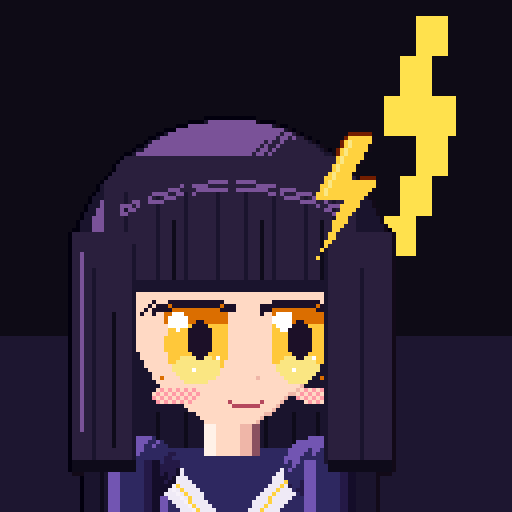
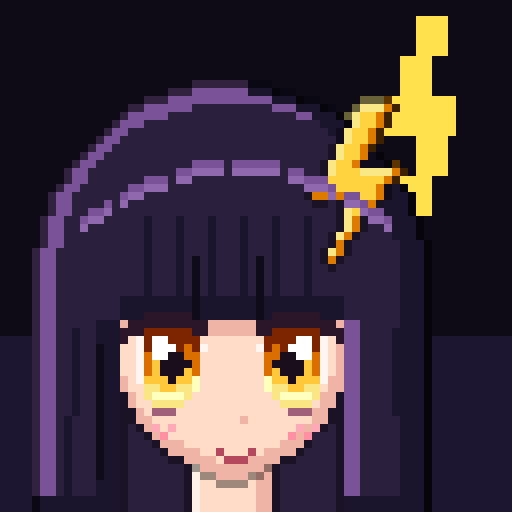
Redraw heroines and squad girls with a new anime pixel-art renderer
Characters are now built from smooth shapes snapped to pixels and
cel-shaded per part (rim light, contact lines, selective outlines), at
about 170px tall. Eyes are hand-placed 11x13 pixel templates with lash,
five-tone iris, pupil, sclera and two highlights (plus star, cat-slit
and blink variants). Ears now grow from the crown, tails from the hip,
and the back view shows layered hair with the arms visible. Portraits
are the sprite's own head at 2x.

Claude-Session: https://claude.ai/code/session_01G7wJVgNREwV81C7tq9bPH5

diff --git a/index.html b/index.html
@@ -620,18 +620,224 @@ const ORN={
   shiden:(D,y)=>{D.poly([[51,3+y],[53,8.5+y],[59,9+y],[54.5,12.6+y],[56,18.5+y],[51,15.2+y],[46,18.5+y],[47.5,12.6+y],[43,9+y],[49,8.5+y]],'R');D.px(50.4,8+y,'5');D.px(50.8,9+y,'5')},
   kurenai:(D,y)=>{D.sphere(48,10+y,3.4,3.4,'rrR5');D.sphere(53.5,14+y,3.4,3.4,'rrR5');D.line(46,10.5+y,50,10.5+y,'r');D.line(51.5,14.5+y,55.5,14.5+y,'r');D.line(50,6+y,53,4+y,'A')}};
 function heroPal(h){return{hair:h.hair,skin:h.skin||'#ffd9c4',blush:'#ff9aa6',lash:'#1c1028',eye:h.eye,white:'#ffffff',mouth:'#b5485d',out:h.outfit,col:h.col||'#efeaf6',acc:h.accent,rib:h.rib,stk:h.stk,boot:h.boot,glow:h.bolt}}
-const HSPR={},PORT_S=128/76;
-function himeSprite(h){if(HSPR[h.id])return HSPR[h.id];const pal=heroPal(h),cache={},look={...h.look,ornament:ORN[h.id],kind:'hero'};
-  const get=(view,pose,f=0,blink=false)=>{const k=view+pose+f+(blink?'b':'');return cache[k]||(cache[k]=mk(human({...look,S:1,view,pose,f,blink}),pal,1))};
+/* ---------- anime girl renderer: smooth shapes snapped to pixels, cel shaded, hand-placed eyes ---------- */
+const EYE_BASE=[
+"...KKKKKK..",
+".KKKKKKKKKK",
+"KKKDDDDDDKK",
+"K.SDWWDDDD.",
+"..SDWWWDdDS",
+"..SdWWPPdd.",
+"..SdMPPPPd.",
+"..SdMPPPMd.",
+"..SMMMPMMH.",
+"...LLMMLLH.",
+"...LHHHHL..",
+"....LLLL...",
+"....kkk...."];
+const EYE_MID={star:["..SdWWdHdd.","..SdMHWWHd.","..SdMMHMMd.","..SMMMHMMH."],cat:["..SdWWdPdd.","..SdMMdPMd.","..SdMMdPMd.","..SMMMdPMH."]};
+const EYE_BLINK=["...........","...........","...........","...........","...........","...........","...........",".KKKKKKKKK.","K.........K","...........","...........","...........","..........."];
+function eyeRows(kind,blink){if(blink)return EYE_BLINK;if(!EYE_MID[kind])return EYE_BASE;return EYE_BASE.slice(0,5).concat(EYE_MID[kind],EYE_BASE.slice(9))}
+const MOUTHS={smile:["m...m",".mmm."],open:[".mmm.","mrrrm",".mrm."],cat:["m.m.m",".m.m."],neutral:[".mm.."]};
+const SKIN=['#a8606e','#f0b4a6','#ffdcc8','#fff1e8'];
+function renderGirl(l,p,o){
+  const S=o.S||1,W=Math.ceil(100*S),H=Math.ceil(174*S),N=W*H;
+  const col=new Uint32Array(N),zb=new Int16Array(N).fill(-1),pid=new Int16Array(N).fill(-1);
+  const tmp=document.createElement('canvas');tmp.width=W;tmp.height=H;const tc=tmp.getContext('2d',{willReadFrequently:true});let nid=0;
+  const back=o.view==='back',pose=o.pose||'walk',f=o.f||0,walk=pose==='walk';
+  const sw=walk?[0,1,0,-1][f]:0,bob=walk?f%2:pose==='idle'?f:0,sway=walk?[0,1.5,0,-1.5][f]:bob*.6,cast=pose==='cast'&&!back,hy=bob;
+  const U=hex=>{const n=parseInt(hex.slice(1),16);return(0xff000000|((n&255)<<16)|(n&0xff00)|(n>>16))>>>0};
+  const R4=hex=>hex==='skin'?SKIN:ramp(hex);
+  // a part is a filled shape at depth z, cel shaded from its own silhouette (shadow on the right/bottom, rim light on the top/left)
+  function part(z,color,draw,opt={}){tc.setTransform(1,0,0,1,0,0);tc.clearRect(0,0,W,H);tc.setTransform(S,0,0,S,0,0);tc.fillStyle='#fff';tc.strokeStyle='#fff';tc.lineCap='round';tc.lineJoin='round';
+    draw(tc);const a=tc.getImageData(0,0,W,H).data,m=new Uint8Array(N);for(let i=0;i<N;i++)m[i]=a[i*4+3]>120?1:0;
+    const rp=R4(color).map(U),id=nid++,bs=Math.max(1,Math.round((opt.band??2.6)*S)),ls=Math.max(1,Math.round((opt.rim??1.4)*S));
+    const inM=(x,y)=>x>=0&&y>=0&&x<W&&y<H&&m[y*W+x]===1;
+    for(let y=0;y<H;y++)for(let x=0;x<W;x++){const i=y*W+x;if(!m[i]||zb[i]>z)continue;let t=2;
+      if(!opt.flat){if(!inM(x+bs,y)||!inM(x,y+bs)||(opt.shadeL&&!inM(x-bs,y)))t=1;else if(!inM(x-ls,y)||!inM(x,y-ls))t=3}
+      if(opt.tone!==undefined)t=opt.tone;col[i]=rp[t];zb[i]=z;pid[i]=id}
+    return id}
+  const P=(x,y)=>[Math.floor(x*S),Math.floor(y*S)];
+  function setPx(x,y,hex,onId,z=900){if(x<0||y<0||x>=W||y>=H)return;const i=y*W+x;if(onId!==undefined&&onId!==null&&(Array.isArray(onId)?!onId.includes(pid[i]):pid[i]!==onId))return;col[i]=U(hex);if(z>zb[i])zb[i]=z}
+  function lineOn(id,x0,y0,x1,y1,hex){[x0,y0]=P(x0,y0);[x1,y1]=P(x1,y1);let dx=Math.abs(x1-x0),dy=-Math.abs(y1-y0),sx=x0<x1?1:-1,sy=y0<y1?1:-1,e=dx+dy;
+    for(let n=0;n<600;n++){setPx(x0,y0,hex,id);if(x0===x1&&y0===y1)break;const e2=2*e;if(e2>=dy){e+=dy;x0+=sx}if(e2<=dx){e+=dx;y0+=sy}}}
+  function stamp(rows,x,y,map,mirror,onId){const[x0,y0]=P(x,y);rows.forEach((r,j)=>{for(let i=0;i<r.length;i++){const ch=r[mirror?r.length-1-i:i],c=map[ch];if(c)setPx(x0+i,y0+j,c,onId,950)}})}
+  const hair=p.hair,hr=ramp(hair),er=ramp(p.eye),dk=shade(hr[0],-30);
+  const L=l,ty=bob;
+  // ---------------- shapes ----------------
+  const leg=(c,lift,dx)=>{const knee=140,ank=158-lift;
+    part(40,'skin',x=>{x.lineWidth=10.4;x.beginPath();x.moveTo(c,112+ty);x.lineTo(c+dx*.4,knee);x.stroke();x.lineWidth=8;x.beginPath();x.moveTo(c+dx*.4,knee);x.lineTo(c+dx,ank);x.stroke()});
+    const stk=L.legs==='stockings'||L.legs==='striped'?132:L.legs==='kneeboots'?999:L.legs==='hakama'?150:L.legs==='pants'?108:999;
+    if(stk<999){const sid=part(42,L.legs==='pants'?p.out:p.stk,x=>{x.lineWidth=L.legs==='pants'?12:10.8;x.beginPath();x.moveTo(c+dx*.4*(stk-112)/28,stk);x.lineTo(c+dx*.4,knee);x.stroke();x.lineWidth=L.legs==='pants'?11:8.8;x.beginPath();x.moveTo(c+dx*.4,knee);x.lineTo(c+dx,ank);x.stroke()});
+      if(L.legs==='striped')for(let y=stk+4;y<ank;y+=4)lineOn(sid,c-8,y,c+8,y,p.acc);
+      if(L.legs==='stockings'||L.legs==='striped'){lineOn(sid,c-6,stk+1,c+6,stk+1,shade(p.stk,-40))}}
+    if(L.legs==='kneeboots'){part(44,p.boot,x=>{x.lineWidth=10.6;x.beginPath();x.moveTo(c+dx*.4,134);x.lineTo(c+dx,ank);x.stroke()});part(45,p.acc,x=>{x.fillRect(c+dx*.4-6,133,12,2.4)},{flat:true})}
+    const sh=L.shoe||'boot';
+    if(sh==='zori'){part(46,'#f8f6f2',x=>{x.beginPath();x.ellipse(c+dx+1,ank+5,5.4,4,0,0,7);x.fill()});part(47,'#7a4a2a',x=>{x.fillRect(c+dx-5,ank+8,12,2.4)},{flat:true});const z=part(48,p.rib,x=>{x.lineWidth=1.6;x.beginPath();x.moveTo(c+dx-2,ank+5);x.lineTo(c+dx+1,ank+2);x.lineTo(c+dx+4,ank+5);x.stroke()},{flat:true})}
+    else{const bootTop=sh==='boot'&&L.legs!=='kneeboots'?ank-8:ank-1;
+      if(sh==='boot'&&L.legs!=='kneeboots')part(46,p.boot,x=>{x.lineWidth=10;x.beginPath();x.moveTo(c+dx,bootTop);x.lineTo(c+dx,ank+2);x.stroke()});
+      part(47,sh==='sneaker'?'#f4f0f8':p.boot,x=>{x.beginPath();x.ellipse(c+dx+1.5,ank+5,6.6,4.6,0,0,7);x.fill()});
+      part(48,sh==='sneaker'?p.acc:shade(p.boot,-25),x=>{x.fillRect(c+dx-5,ank+8.4,13.5,2)},{flat:true});
+      if(sh==='mary')part(49,shade(p.boot,-20),x=>{x.fillRect(c+dx-4,ank+1,10,1.6)},{flat:true})}};
+  const tail=()=>{
+    if(L.tail==='cat'){part(5,hair,x=>{x.lineWidth=5;x.beginPath();x.moveTo(58,108+ty);x.bezierCurveTo(72,114,82,100,78,84+sway);x.bezierCurveTo(76,74,80,66+sway,86,66+sway*1.5);x.stroke()});
+      part(6,hr[3],x=>{x.lineWidth=5;x.beginPath();x.moveTo(84,66.5+sway*1.5);x.lineTo(86,66+sway*1.5);x.stroke()})}
+    else if(L.tail==='fox'){part(5,hair,x=>{x.beginPath();x.moveTo(56,116);x.bezierCurveTo(76,126,94,108,92,86);x.bezierCurveTo(91,70,82,60+sway,74,56+sway);x.bezierCurveTo(80,74,78,94,58,104);x.closePath();x.fill()});
+      part(6,'#fbf6ec',x=>{x.beginPath();x.moveTo(74,56+sway);x.bezierCurveTo(82,58+sway,90,66,91,74);x.bezierCurveTo(86,72,80,68,77,64);x.closePath();x.fill()})}};
+  const backHairLong=(z)=>{const s=L.hs;
+    if(s==='hime')part(z,hair,x=>{x.beginPath();x.moveTo(27,40+hy);x.arc(50,40+hy,23,Math.PI,0);x.lineTo(74,124);x.lineTo(26,124);x.closePath();x.fill()});
+    else if(s==='long')part(z,hair,x=>{x.beginPath();x.moveTo(27,40+hy);x.arc(50,40+hy,23,Math.PI,0);x.lineTo(76,128+sway);x.lineTo(68,124);x.lineTo(62,131+sway);x.lineTo(56,125);x.lineTo(50,132+sway);x.lineTo(44,125);x.lineTo(38,131+sway);x.lineTo(32,124);x.lineTo(24,128+sway);x.closePath();x.fill()});
+    else if(s==='bob')part(z,hair,x=>{x.beginPath();x.moveTo(27,40+hy);x.arc(50,40+hy,23,Math.PI,0);x.lineTo(73,72+hy);x.quadraticCurveTo(50,80+hy,27,72+hy);x.closePath();x.fill()});
+    else part(z,hair,x=>{x.beginPath();x.arc(50,40+hy,23,0,Math.PI*2);x.fill()})};
+  const twinTails=z=>{if(L.hs!=='twin')return;for(const s of[-1,1]){const ax=50+s*20,id=part(z,hair,x=>{x.beginPath();x.moveTo(ax,24+hy);
+      x.bezierCurveTo(50+s*40,30+hy,50+s*38+sway*s,80,50+s*32+sway*s*2,132);x.bezierCurveTo(50+s*30,120,50+s*24,74,ax-s*2,34+hy);x.closePath();x.fill()});
+      for(let k=0;k<3;k++)lineOn(id,ax+s*(4+k*3),34+hy,50+s*(29+k*2)+sway*s*2,124-k*6,hr[1]);lineOn(id,ax+s*5,32+hy,50+s*30,70,hr[3]);
+      part(z+40,p.rib,x=>{x.beginPath();x.ellipse(ax,26+hy,4.6,4.2,0,0,7);x.fill()})}};
+  const ears=z=>{if(L.ears==='cat')for(const s of[-1,1]){const id=part(z,hair,x=>{x.beginPath();x.moveTo(50+s*6,22+hy);x.lineTo(50+s*15,1+hy);x.lineTo(50+s*23,28+hy);x.closePath();x.fill()});
+      part(z+1,'#ff9fb6',x=>{x.beginPath();x.moveTo(50+s*9,20+hy);x.lineTo(50+s*15,7+hy);x.lineTo(50+s*19.5,23+hy);x.closePath();x.fill()},{band:1.4});}
+    else if(L.ears==='fox')for(const s of[-1,1]){part(z,hair,x=>{x.beginPath();x.moveTo(50+s*4,22+hy);x.lineTo(50+s*15,-4+hy);x.lineTo(50+s*25,28+hy);x.closePath();x.fill()});
+      part(z+1,'#fbf3e6',x=>{x.beginPath();x.moveTo(50+s*8,20+hy);x.lineTo(50+s*15,4+hy);x.lineTo(50+s*21,23+hy);x.closePath();x.fill()},{band:1.4});
+      part(z+2,shade(hair,-60),x=>{x.beginPath();x.moveTo(50+s*12.6,2+hy);x.lineTo(50+s*15,-4+hy);x.lineTo(50+s*17.6,3+hy);x.closePath();x.fill()},{flat:true})}};
+  const torso=()=>{const T=73+ty;
+    if(L.outfit==='hoodie'){part(60,p.out,x=>{x.beginPath();x.moveTo(34,T);x.lineTo(66,T);x.quadraticCurveTo(70,96,68,114+ty);x.lineTo(32,114+ty);x.quadraticCurveTo(30,96,34,T);x.fill()});return}
+    const top=L.outfit==='miko'?p.col:p.out;
+    part(60,top,x=>{x.beginPath();x.moveTo(36,T);x.lineTo(64,T);x.quadraticCurveTo(64,88,60,100+ty);x.lineTo(40,100+ty);x.quadraticCurveTo(36,88,36,T);x.fill()})};
+  const bottom=()=>{const T=97+ty,B=L.bottom;
+    if(B==='skirt'){const id=part(55,p.out,x=>{x.beginPath();x.moveTo(39,T);x.lineTo(61,T);x.lineTo(70+sway*.6,124);x.quadraticCurveTo(50,128,30+sway*.6,124);x.closePath();x.fill()});
+      for(let k=0;k<7;k++){const x0=41+k*3,x1=32+k*6+sway*.6;lineOn(id,x0,T+2,x1,125,shade(p.out,-38));lineOn(id,x0+1,T+2,x1+1.5,125,shade(p.out,28))}
+      part(56,p.acc,x=>{x.beginPath();x.moveTo(30+sway*.6,122);x.quadraticCurveTo(50,126,70+sway*.6,122);x.lineTo(70.5+sway*.6,125);x.quadraticCurveTo(50,129,29.5+sway*.6,125);x.closePath();x.fill()},{band:1})}
+    else if(B==='maid'){part(53,p.col,x=>{x.beginPath();for(let k=0;k<=10;k++){const xx=24+k*5.2+sway*.7;x.moveTo(xx+3,136);x.arc(xx,136,3,0,Math.PI*2)}x.fill()},{band:1});
+      const id=part(55,p.out,x=>{x.beginPath();x.moveTo(39,T);x.lineTo(61,T);x.lineTo(76+sway*.7,135);x.quadraticCurveTo(50,140,24+sway*.7,135);x.closePath();x.fill()});
+      for(let k=0;k<6;k++){lineOn(id,42+k*3.4,T+3,30+k*8+sway*.7,135,shade(p.out,-30))}
+      if(!back){const a=part(57,p.col,x=>{x.beginPath();x.moveTo(41,T+1);x.lineTo(59,T+1);x.lineTo(64,128);x.quadraticCurveTo(50,132,36,128);x.closePath();x.fill();for(let k=0;k<=7;k++){x.moveTo(37.5+k*3.8+2.2,129.5);x.arc(37.5+k*3.8,129.5,2.2,0,7)}x.fill()},{band:2});
+        lineOn(a,45,T+4,42,127,shade(p.col,-28));lineOn(a,55,T+4,58,127,shade(p.col,-28))}
+      else part(57,p.col,x=>{x.beginPath();x.moveTo(44,T);x.lineTo(56,T);x.lineTo(62,T+12);x.lineTo(54,T+8);x.lineTo(50,T+15);x.lineTo(46,T+8);x.lineTo(38,T+12);x.closePath();x.fill()})}
+    else if(B==='idol'){part(53,p.col,x=>{x.beginPath();x.moveTo(38,T);x.lineTo(62,T);x.lineTo(74+sway*.6,126);x.quadraticCurveTo(50,131,26+sway*.6,126);x.closePath();x.fill();for(let k=0;k<=12;k++){x.moveTo(27+k*3.9+sway*.6+2.4,127);x.arc(27+k*3.9+sway*.6,127,2.4,0,7)}x.fill()},{band:1.6});
+      const id=part(55,p.out,x=>{x.beginPath();x.moveTo(39,T);x.lineTo(61,T);x.lineTo(70+sway*.5,119);x.quadraticCurveTo(50,123,30+sway*.5,119);x.closePath();x.fill();for(let k=0;k<=10;k++){x.moveTo(31+k*3.9+sway*.5+2.6,120);x.arc(31+k*3.9+sway*.5,120,2.6,0,7)}x.fill()});
+      for(let k=0;k<5;k++)lineOn(id,43+k*3.5,T+3,34+k*8,119,shade(p.out,-30));
+      for(const bx of[36,50,64])part(58,p.rib,x=>{x.beginPath();x.moveTo(bx,121);x.lineTo(bx-4,118.5);x.lineTo(bx-4,124);x.closePath();x.moveTo(bx,121);x.lineTo(bx+4,118.5);x.lineTo(bx+4,124);x.closePath();x.fill()},{band:1})}
+    else if(B==='hakama'){const id=part(55,p.out,x=>{x.beginPath();x.moveTo(37,T-5);x.lineTo(63,T-5);x.lineTo(70+sway*.5,162);x.lineTo(30+sway*.5,162);x.closePath();x.fill()});
+      for(let k=0;k<6;k++){lineOn(id,40+k*4,T-2,32+k*7.2+sway*.5,161,shade(p.out,-35));lineOn(id,41+k*4,T-2,33.5+k*7.2+sway*.5,161,shade(p.out,22))}
+      if(!back)part(58,p.rib,x=>{x.beginPath();x.moveTo(50,T-1);x.lineTo(45,T-4);x.lineTo(45,T+2);x.closePath();x.moveTo(50,T-1);x.lineTo(55,T-4);x.lineTo(55,T+2);x.closePath();x.moveTo(49,T);x.lineTo(51,T);x.lineTo(53,T+12);x.lineTo(50,T+9);x.lineTo(47,T+12);x.closePath();x.fill()},{band:1})}
+    else if(B==='pants'){part(55,p.out,x=>{x.beginPath();x.moveTo(38,T-2);x.lineTo(62,T-2);x.lineTo(63,118);x.lineTo(37,118);x.closePath();x.fill()})}};
+  const details=()=>{const T=73+ty;
+    if(L.outfit==='sailor'){if(!back){const c=part(65,p.col,x=>{x.beginPath();x.moveTo(37,T-1);x.lineTo(50,T+14);x.lineTo(63,T-1);x.lineTo(66,T+3);x.lineTo(50,T+20);x.lineTo(34,T+3);x.closePath();x.fill()},{band:1.6});
+        lineOn(c,36,T+2,50,T+17,p.acc);lineOn(c,64,T+2,50,T+17,p.acc);
+        part(67,p.rib,x=>{x.beginPath();x.moveTo(50,T+16);x.lineTo(42,T+11);x.lineTo(42,T+21);x.closePath();x.moveTo(50,T+16);x.lineTo(58,T+11);x.lineTo(58,T+21);x.closePath();x.moveTo(48.5,T+17);x.lineTo(51.5,T+17);x.lineTo(53,T+29);x.lineTo(50,T+26);x.lineTo(47,T+29);x.closePath();x.fill()},{band:1.4});
+        part(68,shade(p.rib,-20),x=>{x.beginPath();x.ellipse(50,T+16,2.3,2.4,0,0,7);x.fill()},{flat:true})}
+      else{const c=part(65,p.col,x=>{x.fillRect(36,T-1,28,14)},{band:1.4});lineOn(c,37,T+10,63,T+10,p.acc);lineOn(c,37,T+11,63,T+11,p.acc)}
+      part(66,p.acc,x=>{x.fillRect(39.5,97+ty,21,2.6)},{band:1})}
+    if(L.outfit==='maid'){if(!back){part(65,p.col,x=>{x.beginPath();x.moveTo(43,T+7);x.lineTo(57,T+7);x.lineTo(56,99+ty);x.lineTo(44,99+ty);x.closePath();x.fill();x.lineWidth=2.2;x.beginPath();x.moveTo(43.5,T+7);x.lineTo(39,T);x.moveTo(56.5,T+7);x.lineTo(61,T);x.stroke()},{band:1.4});
+        part(66,p.col,x=>{x.beginPath();x.ellipse(45,T+1.5,5,3,0,0,7);x.ellipse(55,T+1.5,5,3,0,0,7);x.fill()},{band:1});
+        part(67,p.rib,x=>{x.beginPath();x.moveTo(50,T+3);x.lineTo(44,T);x.lineTo(44,T+6);x.closePath();x.moveTo(50,T+3);x.lineTo(56,T);x.lineTo(56,T+6);x.closePath();x.fill()},{band:1})}
+      else part(65,p.col,x=>{x.lineWidth=2.2;x.beginPath();x.moveTo(39,T);x.lineTo(46,99);x.moveTo(61,T);x.lineTo(54,99);x.moveTo(44,T+12);x.lineTo(56,T+12);x.stroke()},{band:1})}
+    if(L.outfit==='idol'&&!back){part(65,p.col,x=>{x.beginPath();for(let k=0;k<=8;k++){x.moveTo(37+k*3.3+2,T+1);x.arc(37+k*3.3,T+1,2,0,7)}x.fill()},{band:1});
+      const id=part(66,p.rib,x=>{x.beginPath();x.moveTo(50,T+6);x.lineTo(42,T+2);x.lineTo(42,T+10);x.closePath();x.moveTo(50,T+6);x.lineTo(58,T+2);x.lineTo(58,T+10);x.closePath();x.fill()},{band:1.2});
+      part(66,p.col,x=>{x.beginPath();x.arc(50,T+16,1.5,0,7);x.arc(50,T+21,1.5,0,7);x.fill()},{flat:true});
+      part(67,p.acc,x=>{x.fillRect(39.5,97+ty,21,2.2)},{band:1})}
+    if(L.outfit==='miko'&&!back){const id=part(65,p.out,x=>{x.lineWidth=2;x.beginPath();x.moveTo(42,T);x.lineTo(50,T+14);x.lineTo(58,T);x.stroke()},{flat:true})}
+    if(L.outfit==='hoodie'){if(!back){part(65,shade(p.out,-18),x=>{x.beginPath();x.ellipse(50,T+1,13,4,0,0,7);x.fill()},{band:1.4});
+        const pk=part(66,p.out,x=>{x.beginPath();x.moveTo(40,98+ty);x.lineTo(60,98+ty);x.lineTo(62,110+ty);x.lineTo(38,110+ty);x.closePath();x.fill()},{band:1.6});
+        part(67,'#ffffff',x=>{x.lineWidth=1.6;x.beginPath();x.moveTo(46,T+3);x.lineTo(45,T+17);x.moveTo(54,T+3);x.lineTo(55,T+17);x.stroke()},{flat:true});
+        part(67,'#ffffff',x=>{x.beginPath();x.arc(50,T+11,2.4,0,7);x.arc(47,T+7.6,1.1,0,7);x.arc(50,T+6.6,1.1,0,7);x.arc(53,T+7.6,1.1,0,7);x.fill()},{flat:true})}
+      else part(65,shade(p.out,-14),x=>{x.beginPath();x.ellipse(50,T+5,13,8,0,0,7);x.fill()},{band:2})}
+    if(L.outfit==='vest'){part(64,p.vest,x=>{x.beginPath();x.moveTo(38.5,T+1);x.lineTo(61.5,T+1);x.lineTo(60,98+ty);x.lineTo(40,98+ty);x.closePath();x.fill()});
+      if(!back){part(65,shade(p.vest,-12),x=>{x.fillRect(40,T+12,7,8);x.fillRect(53,T+12,7,8)},{band:1.4});part(66,p.acc,x=>{x.fillRect(41,T+4,6,4)},{band:1})}
+      part(66,p.boot,x=>{x.fillRect(38,96+ty,24,3.4)},{band:1})}
+    if(L.neck==='bell'){part(70,p.rib,x=>{x.fillRect(44,69+ty,12,2.6)},{band:1});part(71,'#ffd84a',x=>{x.beginPath();x.arc(50,73.4+ty,2.6,0,7);x.fill()},{band:1.2})}
+    if(L.neck==='choker'){part(70,p.rib,x=>{x.fillRect(45,68.6+ty,10,2.2);x.beginPath();x.moveTo(48,71+ty);x.lineTo(52,71+ty);x.lineTo(50,73.4+ty);x.closePath();x.fill()},{band:1})}};
+  const arms=()=>{const sl=L.sleeve||'long',sc=sl==='puffWhite'||sl==='wide'?p.col:p.out,skin=L.gloves?p.col:L.kind==='soldier'?p.gear:'skin';
+    for(const s of[-1,1]){if(cast&&s>0&&!back)continue;const sx=50+s*14.5,dy=s*sw*2.8*(back?-1:1),ex=50+s*17,ey=96+ty,hx=50+s*17.4,hyy=113+ty+dy;
+      if(sl==='wide'){part(75,p.col,x=>{x.beginPath();x.moveTo(sx-6,74+ty);x.lineTo(sx+6,74+ty);x.lineTo(sx+s*8+5,120+dy*.5);x.lineTo(sx+s*2-7,120+dy*.5);x.closePath();x.fill()});
+        part(76,p.out,x=>{x.fillRect(Math.min(sx+s*2-7,sx+s*8+5),118+dy*.5,12,2.4)},{flat:true});if(!back)part(77,'skin',x=>{x.beginPath();x.arc(hx,hyy,4.2,0,7);x.fill()});continue}
+      if(sl==='puff'||sl==='puffWhite'){part(75,sc,x=>{x.beginPath();x.ellipse(sx+s*1.5,79+ty,7,7.4,0,0,7);x.fill()});part(76,p.col,x=>{x.fillRect(sx+s*2.5-4.5,84.5+ty,9,2.2)},{band:1});
+        part(74,skin,x=>{x.lineWidth=7;x.beginPath();x.moveTo(sx+s*2.4,86+ty);x.lineTo(ex,ey+2);x.lineTo(hx,hyy-3);x.stroke()})}
+      else if(sl==='hoodie'){part(75,p.out,x=>{x.lineWidth=10;x.beginPath();x.moveTo(sx,77+ty);x.lineTo(ex,ey);x.lineTo(hx,hyy-2);x.stroke()});part(76,shade(p.out,-14),x=>{x.lineWidth=10;x.beginPath();x.moveTo(hx,hyy-3);x.lineTo(hx,hyy-1);x.stroke()},{band:1})}
+      else{part(75,sl==='long'?sc:p.out,x=>{x.lineWidth=9;x.beginPath();x.moveTo(sx,77+ty);x.lineTo(ex,ey);x.stroke();x.lineWidth=8;x.beginPath();x.moveTo(ex,ey);x.lineTo(ex+s*.2,ey+8);x.stroke()});
+        if(L.kind==='hero')part(76,p.col,x=>{x.fillRect(ex-4.2,ey+7,8.4,2.4)},{band:1});
+        part(74,skin,x=>{x.lineWidth=6.4;x.beginPath();x.moveTo(ex,ey+8);x.lineTo(hx,hyy-3);x.stroke()})}
+      part(77,skin,x=>{x.beginPath();x.ellipse(hx,hyy,4.3,4.8,0,0,7);x.fill()})}};
+  const castArm=()=>{const sc=L.sleeve==='puffWhite'||L.sleeve==='wide'?p.col:p.out,skin=L.gloves?p.col:'skin';
+    part(88,sc,x=>{x.lineWidth=L.sleeve==='wide'?11:9;x.beginPath();x.moveTo(64,78+ty);x.lineTo(72,66+ty);x.stroke()});
+    part(87,skin,x=>{x.lineWidth=6.4;x.beginPath();x.moveTo(72,66+ty);x.lineTo(75,52+ty);x.stroke()});
+    part(89,skin,x=>{x.beginPath();x.ellipse(75.5,48+ty,4.4,4.8,0,0,7);x.fill()});
+    const g=p.glow||'#ffe14d';part(90,g,x=>{x.beginPath();x.arc(77,40+ty,3.2,0,7);x.fill();x.lineWidth=1.6;x.beginPath();x.moveTo(77,32+ty);x.lineTo(77,35+ty);x.moveTo(71,37+ty);x.lineTo(73,38+ty);x.moveTo(83,37+ty);x.lineTo(81,38+ty);x.moveTo(84,43+ty);x.lineTo(81,42+ty);x.stroke()},{flat:true,tone:3})};
+  // head
+  let faceId=-9,hairId=-9;
+  const face=()=>{faceId=part(80,'skin',x=>{x.beginPath();x.moveTo(35,34+hy);x.lineTo(65,34+hy);x.lineTo(65.4,47+hy);x.bezierCurveTo(65,56+hy,58,63+hy,50,65.4+hy);x.bezierCurveTo(42,63+hy,35,56+hy,34.6,47+hy);x.closePath();x.fill()},{band:2.4,rim:1})};
+  const neck=()=>part(70,'skin',x=>{x.fillRect(45.5,58+hy,9,17)},{band:2});
+  const frontHair=()=>{const s=L.hs,bs=L.bangs||'blunt',lockEnd=s==='hime'?70:s==='bob'?66:s==='twin'?60:72;
+    hairId=part(85,hair,x=>{x.beginPath();x.moveTo(26,44+hy);x.arc(50,40+hy,24,Math.PI*1.03,-Math.PI*.03);
+      if(s==='hime'){x.lineTo(74,lockEnd+hy);x.lineTo(64.5,lockEnd+hy);x.lineTo(64.5,45+hy)}else{x.quadraticCurveTo(75,58+hy,70+sway*.5,lockEnd+hy);x.lineTo(64,56+hy);x.lineTo(64,45+hy)}
+      if(bs==='blunt'){x.lineTo(64,45+hy);x.lineTo(36,45+hy)}
+      else if(bs==='parted'){for(const[a,b]of[[62,49],[59,43],[56,50],[53,42],[50.5,37],[48,45],[44,51],[40,44],[37,50]])x.lineTo(a,b+hy)}
+      else{for(const[a,b]of[[62,48],[59.5,43],[57,49],[54,43],[51,49],[48,43],[45,49],[42,43],[39,49],[36.5,44]])x.lineTo(a,b+hy)}
+      if(s==='hime'){x.lineTo(35.5,45+hy);x.lineTo(35.5,lockEnd+hy);x.lineTo(26,lockEnd+hy)}else{x.lineTo(36,45+hy);x.lineTo(36,56+hy);x.lineTo(30-sway*.5,lockEnd+hy);x.quadraticCurveTo(25,58+hy,26,44+hy)}
+      x.closePath();x.fill()},{band:2.6,rim:1.6});
+    // strands, shine and shadow on the face
+    const d1=hr[1],d0=hr[0];
+    if(bs==='blunt'){for(const sx of[39,43,47,51,55,59])lineOn(hairId,sx,32+hy,sx,44+hy,d1);for(const sx of[45,53])lineOn(hairId,sx,37+hy,sx,44+hy,d0)}
+    else for(const[a,b]of[[41,30],[46,31],[52,30],[57,31]])lineOn(hairId,a,b+hy,a+(a<50?-1:1),b+12+hy,d1);
+    lineOn(hairId,30,46+hy,29,lockEnd-2+hy,d1);lineOn(hairId,70,46+hy,71,lockEnd-2+hy,d1);lineOn(hairId,33,48+hy,33,lockEnd-6+hy,d0);
+    for(let xx=31;xx<=69;xx++){if(xx%7===0)continue;const yy=Math.round(25+hy+((xx-50)/19)**2*7);setPx(Math.floor(xx*S),Math.floor(yy*S),hr[3],hairId);setPx(Math.floor(xx*S),Math.floor((yy+1)*S),shade(hr[3],22),hairId)}
+    for(let xx=36;xx<=64;xx++)for(const yy of[45,46])if(true){const[a,b]=P(xx,yy+hy);const i=b*W+a;if(pid[i]===faceId)col[i]=U(SKIN[1])}};
+  const eyesMouth=()=>{const ek=L.eyes||'round',rows=eyeRows(ek,o.blink),map={K:'#2a1628',k:'#a0607a',D:er[0],d:er[1],M:er[2],L:er[3],H:shade(er[3],60),P:'#1a0d1c',W:'#ffffff',S:'#fff6f2'};
+    stamp(rows,36,44+hy,map,false,null);stamp(rows,53,44+hy,map,true,null);
+    if((L.bangs||'blunt')!=='blunt'){for(const[a,b]of[[38,42],[39,41],[40,41],[41,41],[42,41]])setPx(...P(a,b+hy),dk,faceId);for(const[a,b]of[[62,42],[61,41],[60,41],[59,41],[58,41]])setPx(...P(a,b+hy),dk,faceId)}
+    for(const bx of[37,57])for(let k=0;k<3;k++){setPx(...P(bx+k*2,59+hy),'#ff8fa3',faceId);setPx(...P(bx+k*2+1,58+hy),'#ffa8b6',faceId)}
+    setPx(...P(51,57+hy),SKIN[1],faceId);
+    stamp(MOUTHS[L.mouth||'smile'],48,61+hy,{m:'#b5485d',r:'#ff8a9a'},false,faceId)};
+  const headwear=()=>{const hw=L.head;
+    if(hw==='maid'){part(92,p.col,x=>{x.beginPath();for(let k=0;k<=8;k++){const a=Math.PI*(1.15+k*.0875),cx=50+Math.cos(a)*22,cy=40+hy+Math.sin(a)*22;x.moveTo(cx+3,cy);x.arc(cx,cy,3,0,7)}x.fill();x.lineWidth=3;x.beginPath();x.arc(50,40+hy,20,Math.PI*1.12,Math.PI*1.88);x.stroke()},{band:1.4})}
+    else if(hw==='idol'){const star=(cx,cy,R)=>x=>{x.beginPath();for(let k=0;k<10;k++){const a=-Math.PI/2+k*Math.PI/5,r=k%2?R*.45:R;k?x.lineTo(cx+Math.cos(a)*r,cy+Math.sin(a)*r):x.moveTo(cx+Math.cos(a)*r,cy+Math.sin(a)*r)}x.closePath();x.fill()};
+      part(92,p.acc,star(64,24+hy,6),{band:1.4});part(93,p.acc,star(70,32+hy,3.6),{band:1})}
+    else if(hw==='miko')part(92,p.rib,x=>{x.beginPath();x.moveTo(66,30+hy);x.lineTo(72,26+hy);x.lineTo(72,34+hy);x.closePath();x.moveTo(66,30+hy);x.lineTo(61,24+hy);x.lineTo(60,33+hy);x.closePath();x.fill();x.lineWidth=1.6;x.beginPath();x.moveTo(66,31+hy);x.lineTo(68,42+hy);x.stroke()},{band:1.2});
+    if(L.orn==='raiko')part(93,p.rib,x=>{x.beginPath();x.moveTo(66,18+hy);x.lineTo(60,30+hy);x.lineTo(65,30+hy);x.lineTo(61,40+hy);x.lineTo(71,26+hy);x.lineTo(66,26+hy);x.lineTo(70,18+hy);x.closePath();x.fill()},{band:1.2});
+    if(L.orn==='hayate')part(93,p.rib,x=>{x.beginPath();x.moveTo(66,26+hy);x.lineTo(58,21+hy);x.lineTo(58,31+hy);x.closePath();x.moveTo(66,26+hy);x.lineTo(74,21+hy);x.lineTo(74,31+hy);x.closePath();x.fill();x.beginPath();x.arc(66,26+hy,2.6,0,7);x.fill()},{band:1.2});
+    if(L.orn==='shiden')part(93,p.rib,x=>{x.beginPath();for(let k=0;k<10;k++){const a=-Math.PI/2+k*Math.PI/5,r=k%2?2.8:6.4;const px=66+Math.cos(a)*r,py=26+hy+Math.sin(a)*r;k?x.lineTo(px,py):x.moveTo(px,py)}x.closePath();x.fill()},{band:1.2});
+    if(L.orn==='kurenai')part(93,p.rib,x=>{x.beginPath();x.arc(63,25+hy,3.6,0,7);x.arc(69.5,30+hy,3.6,0,7);x.fill()},{band:1.4});
+    if(L.helmet){part(94,p.gear,x=>{x.beginPath();x.arc(50,38+hy,25,Math.PI,0);x.lineTo(76,40+hy);x.lineTo(24,40+hy);x.closePath();x.fill()});
+      if(!back)part(95,p.acc,x=>{x.fillRect(36,26+hy,11,5);x.fillRect(53,26+hy,11,5)},{band:1.2})}};
+  const backHead=()=>{const s=L.hs;
+    hairId=part(85,hair,x=>{x.beginPath();x.arc(50,40+hy,24,0,Math.PI*2);
+      if(s==='hime')x.rect(31,40+hy,38,74);
+      else if(s==='long'){x.moveTo(30,40+hy);x.lineTo(70,40+hy);x.lineTo(72,126+sway);x.lineTo(66,120);x.lineTo(61,128+sway);x.lineTo(55,121);x.lineTo(50,129+sway);x.lineTo(45,121);x.lineTo(39,128+sway);x.lineTo(34,120);x.lineTo(28,126+sway)}
+      else if(s==='bob'){x.moveTo(26,40+hy);x.lineTo(74,40+hy);x.lineTo(73,72+hy);x.quadraticCurveTo(50,78+hy,27,72+hy)}
+      x.fill()},{band:2.6,rim:1.6,shadeL:true});
+    const bot=s==='hime'?112:s==='long'?118:s==='bob'?70:56;for(const[xx,k]of[[33,0],[38,1],[42,1],[47,0],[53,1],[58,1],[62,0],[67,1]])lineOn(hairId,50+(xx-50)*.45,26+hy+(k?4:0),xx+(xx<50?-1:1),bot-(k?6:0),k?hr[1]:hr[0])
+    for(let xx=31;xx<=69;xx++){if(xx%7===0)continue;const yy=Math.round(27+hy+((xx-50)/19)**2*6);setPx(...P(xx,yy),hr[3],hairId)}
+    if(s==='hime')lineOn(hairId,31,112,69,112,hr[0]);
+    if(L.head==='miko')part(96,p.rib,x=>{x.fillRect(46,88,8,5);x.beginPath();x.moveTo(50,90);x.lineTo(42,85);x.lineTo(42,95);x.closePath();x.moveTo(50,90);x.lineTo(58,85);x.lineTo(58,95);x.closePath();x.fill()},{band:1.2})};
+  // ---------------- assemble ----------------
+  if(!back){tail();twinTails(8);backHairLong(10)}
+  leg(43.5,sw>0?4:0,-sw*1.4);leg(56.5,sw<0?4:0,sw*1.4);
+  bottom();torso();details();
+  if(!back){neck();arms();face();ears(83);frontHair();eyesMouth();headwear();if(cast)castArm()}
+  else{neck();arms();ears(83);backHead();twinTails(97);tail();headwear()}
+  // ---------------- composite + outlines ----------------
+  const c=document.createElement('canvas');c.width=W+2;c.height=H+2;const x=c.getContext('2d'),img=x.createImageData(W+2,H+2),out=new Uint32Array(img.data.buffer);
+  const dark=(v,k)=>{const r=v&255,g=(v>>8)&255,b=(v>>16)&255;return(0xff000000|(((b*k)|0)<<16)|(((g*k)|0)<<8)|((r*k)|0))>>>0};
+  for(let y=0;y<H;y++)for(let xx=0;xx<W;xx++){const i=y*W+xx;if(!col[i])continue;let v=col[i];
+    // contact line where a part sits behind another (e.g. arm over torso)
+    const me=zb[i];if(pid[i]>=0&&me<900)for(const j of[i-1,i+1,i-W,i+W]){if(j<0||j>=N||!col[j]||pid[j]<0)continue;if(zb[j]>=me+8&&zb[j]<900){v=dark(v,.62);break}}
+    out[(y+1)*(W+2)+xx+1]=v}
+  for(let y=0;y<H+2;y++)for(let xx=0;xx<W+2;xx++){const o2=y*(W+2)+xx;if(out[o2])continue;const gi=xx-1,gj=y-1;
+    const nb=(a,b)=>a>=0&&b>=0&&a<W&&b<H?col[b*W+a]:0;let n=nb(gi,gj-1)||nb(gi-1,gj),bottom=!!n;if(!n)n=nb(gi,gj+1)||nb(gi+1,gj);
+    if(n)out[o2]=dark(n,bottom?.28:.42)}
+  x.putImageData(img,0,0);return c}
+const HSPR={};
+function himeSprite(h){if(HSPR[h.id])return HSPR[h.id];const pal={...heroPal(h),out:h.outfit},cache={},look={...h.look,kind:'hero',orn:h.look.hs==='hime'?h.id:undefined};
+  const get=(view,pose,f=0,blink=false)=>{const k=view+pose+f+(blink?'b':'');return cache[k]||(cache[k]=mkC(renderGirl(look,pal,{view,pose,f,blink}),1))};
   let por=null;
   return HSPR[h.id]={get,get front(){return[0,1,2,3].map(f=>get('front','walk',f))},get back(){return[0,1,2,3].map(f=>get('back','walk',f))},
-    get portrait(){if(por)return por;const big=bake(human({...look,S:PORT_S,view:'front',pose:'idle',f:0}),pal);por=document.createElement('canvas');por.width=por.height=128;
-      por.getContext('2d').drawImage(big,Math.round(10*PORT_S)+1,Math.round(3*PORT_S)+1,128,128,0,0,128,128);return por}}}
-
-const SSPR={},SOL_S=.46;
+    // portrait: the sprite's own head, scaled 2x so it stays true pixel art
+    get portrait(){if(por)return por;const src=get('front','idle',0).r;por=document.createElement('canvas');por.width=por.height=128;const x=por.getContext('2d');x.imageSmoothingEnabled=false;
+      x.drawImage(src,19,8,64,64,0,0,128,128);return por}}}
+const SSPR={},SOL_S=.82;
 function soldierSprite(rec){const k=rec.cls+rec.hair;if(SSPR[k])return SSPR[k];const c=CLASSES[rec.cls];
   const pal={hair:rec.hair,skin:'#ffd9c4',blush:'#ff9aa6',lash:'#1c1028',eye:'#5a4a7a',white:'#ffffff',mouth:'#b5485d',out:c.o,vest:c.v,gear:c.g,acc:c.a,boot:'#2a2235'};
-  const fr=(view,f)=>mk(human({S:SOL_S,view,f,kind:'soldier',hs:'bob',bangs:'blunt',helmet:true,outfit:'vest',bottom:'pants',legs:'pants',shoe:'boot',sleeve:'long'}),pal,2);
+  const look={kind:'soldier',hs:'bob',bangs:'blunt',helmet:true,outfit:'vest',bottom:'pants',legs:'pants',shoe:'boot',sleeve:'long',eyes:'round',mouth:'smile'},gp={...pal,col:'#efeaf6',rib:c.a,stk:c.o};
+  const fr=(view,f)=>mkC(renderGirl(look,gp,{view,f,S:SOL_S}),1);
   return SSPR[k]={front:[0,1,2,3].map(f=>fr('front',f)),back:[0,1,2,3].map(f=>fr('back',f))}}
 const GUNS={
   rifle:g=>{g.rect(0,2,4,3,'B');g.rect(4,2,9,2,'G');g.rect(13,2,5,1,'G');g.rect(8,4,2,2,'G');g.rect(9,1,2,1,'J');g.set(5,4,'G')},
@@ -973,7 +1179,7 @@ function startMission(idx,sandbox){
   save.squad.slice(0,squadCap()).forEach((rec,i)=>G.squad.push(makeSoldier(rec,i)));
   // HUD prep
   const lo=loadout();[0,1,2].forEach(i=>{$('#pw'+i).firstElementChild.textContent=POWERS[lo[i]].short});
-  $('#hudName').textContent=h.name;const face=$('#hudFace');face.textContent='';face.appendChild(cropCanvas(himeSprite(h).portrait,26,30,76,76,.6));
+  $('#hudName').textContent=h.name;const face=$('#hudFace');face.textContent='';face.appendChild(cropCanvas(himeSprite(h).portrait,20,30,88,88,.55));
   $('#sbx').hidden=!sandbox;$('#hint').hidden=false;$('#btnSquad').textContent='Follow';
   state='play';paused=false;showScreen(null);$('#hud').hidden=false;
   banner(city.name,sandbox?'Sandbox: spawn anything, nothing to lose':`Destroy ${G.nests.length} nests and clear the infected`);
@@ -1271,7 +1477,7 @@ function render(){
       const k=((Math.round(e.aim/(Math.PI*2)*16)%16)+16)%16,gi=gs[k],gw=gi.width,gx=SX(e.x+Math.cos(e.aim)*2.5)-(gw>>1),gy=SY(e.y-6)-(gw>>1);
       shadow(e.x,e.y,60);const rc=e.muzzle>0?-1.2:0,rx=Math.cos(e.aim)*rc*RZ,ry=Math.sin(e.aim)*rc*RZ,behind=Math.sin(e.aim)<-.2;if(behind)ctx.drawImage(gi,gx+rx,gy+ry,gw,gw);drawSpr(f,e.x+Math.cos(e.aim)*rc,e.y+Math.sin(e.aim)*rc,e.face,e.flash>0);if(!behind)ctx.drawImage(gi,gx+rx,gy+ry,gw,gw);
       if(e.muzzle>0){const mx=SX(e.x+Math.cos(e.aim)*12),my=SY(e.y-6+Math.sin(e.aim)*12);ctx.fillStyle='#fff4c0';ctx.fillRect(mx-6,my-6,12,12);ctx.fillStyle='#ffb35a';ctx.fillRect(mx-3,my-11,6,22);ctx.fillRect(mx-11,my-3,22,6)}
-      if(e.hp<e.max)hpBar(e.x,e.y-18,56,e.hp/e.max,'#7dff8a')}
+      if(e.hp<e.max)hpBar(e.x,e.y-20,56,e.hp/e.max,'#7dff8a')}
     else if(e.kind==='p'){const f=p.moving?hs.get(p.diry<-.45?'back':'front','walk',(p.anim|0)%4):p.castT>0?hs.get('front','cast',0):hs.get('front','idle',(G.time*1.5|0)%2,(G.time%3.6)<.14);shadow(p.x,p.y,64);
       if(G.storm||G.slowT>0){ctx.globalCompositeOperation='lighter';ctx.drawImage(glowOf(h.bolt),SX(p.x)-90,SY(p.y-8)-90,180,180);ctx.globalCompositeOperation='source-over'}
       drawSpr(f,p.x,p.y,p.face,p.inv>0&&((G.time*30|0)%2===0));

diff --git a/sw.js b/sw.js
@@ -1,5 +1,5 @@
 // Offline cache so the installed game runs without a connection.
-const CACHE = 'voltfall-v4';
+const CACHE = 'voltfall-v5';
 const ASSETS = ['./', './index.html', './manifest.webmanifest', './icon-192.png', './icon-512.png'];
 self.addEventListener('install', e => {
   e.waitUntil(caches.open(CACHE).then(c => c.addAll(ASSETS)).then(() => self.skipWaiting()));

diff --git a/README.md b/README.md
@@ -40,13 +40,14 @@ A detailed pixel-art zombie game for phones. You play as one of four lightning-p
 
 ## Art
 
-All art is pixel art generated in code, so the game stays a single HTML file. It renders at your screen's real resolution, with two levels of detail:
+All art is pixel art generated in code, so the game stays a single HTML file.
 
-- **128 px: main characters.** The four heroines and the Boss. Heroines are built from a parametric figure with blunt hime-cut bangs, sidelocks and long hair, layered anime eyes, a sailor uniform with a pleated skirt, and a personal hair ornament. They have front and back views, four-frame walk cycles and 128×128 menu portraits.
-- **64 px: everything else.** Infected, soldiers (with guns that rotate to aim), nests and the 64px city tiles, drawn at 2× next to the main characters.
-- Colors use four-tone, hue-shifted ramps with dithered transitions, rim light and selective outlines.
-- The city is built in 8×8-tile chunks as you approach them: cracked asphalt, manholes, crosswalks, curbs, detailed rooftops, layered trees and cars.
-- Night lighting: the city is dark except around your heroine, muzzle flashes and lightning.
-- If a device can't keep the frame rate up, the game lowers its render resolution automatically.
+- **Heroines and squad girls (about 170px tall)** are drawn as smooth shapes (hair, face, outfits, limbs), then snapped to crisp pixels and cel-shaded per part, with rim light, contact lines and selective outlines.
+  - Eyes are hand-placed pixel templates: a thick upper lash, a five-tone iris, pupil, sclera, two highlights and a lower lash, with variants for star pupils, cat slits and blinking.
+  - Animal ears grow out of the crown and tails come from the hip.
+  - Front and back views, four-frame walks, idle breathing, blinks and a cast pose.
+- **Portraits** are each heroine's own head scaled 2× with no smoothing, so they stay true pixel art.
+- **Infected, nests and the city** use 64px art drawn at 2×. Tiles are built in 8×8-tile chunks as you approach them.
+- Night lighting, and render resolution that drops automatically on slower phones.
 
 Progress is saved in the browser.
